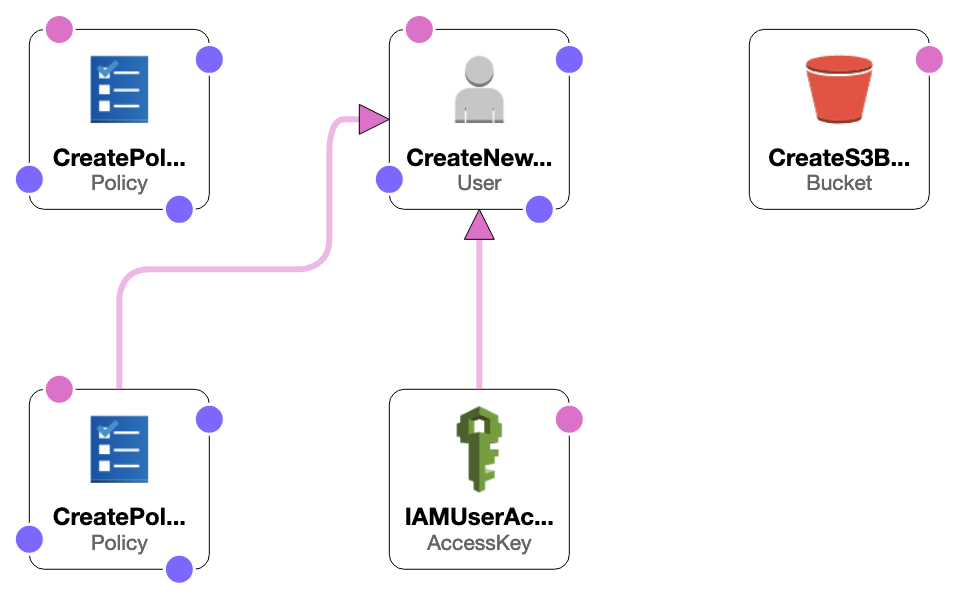
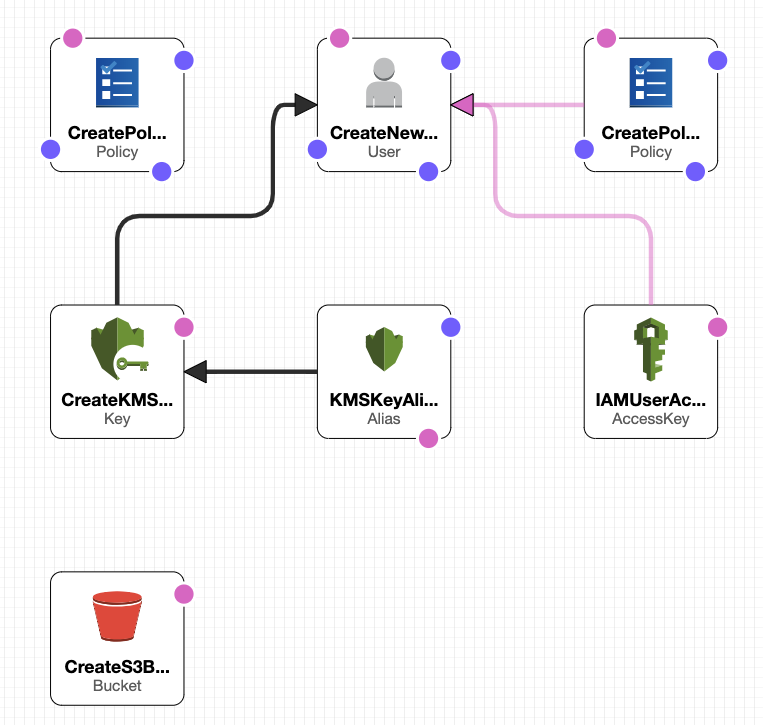
update docs for KMS support

diff --git a/docs/quick-start.md b/docs/quick-start.md
@@ -2,78 +2,83 @@
 
 Walkthrough for commpleting the AWS configuration process required for the Rubrik CloudOut to S3.
 
-The end-to-end workflow is as follows:
+The following tasks are completed during the workflow:
 
-* A new IAM policy is created
-* A new IAM user is created
-* IAM policy is assigned to user
-* Access key is generated
-* S3 bucket is created
+* A new IAM user is created* (Access and Secret Keys generated)
+* A new inline IAM policy is created for the user
+* S3 bucket is created*
+* A new KMS key is created (optional)
+
+_* The template can also consume a previously created IAM User or S3 Bucket_
 
 ![Template Design](/docs/img/rubrik_cloudout-designer.png)
 
-
-# CloudFormation Stack
+## CloudFormation Stack
 
 Navigate to **Services** > **CloudFormation** > **Stacks** and select **Create Stack**. 
 
 ![Create a Stack](/docs/img/image1.png)
 
-Either select **Upload a template to Amazon S3** or, preferably, **Specify an Amazon S3 template URL**. 
+Either select **Upload a template file** or, preferably, **Specify an Amazon S3 template URL**.
 
 ![Select Template](/docs/img/image2.png)
 
 The template file can be downloaded [here](https://s3-us-west-1.amazonaws.com/cloudformation-templates-rubrik-prod/rubrik_cloudout.template). Copy the following URL:
 
-```
-https://s3-us-west-1.amazonaws.com/cloudformation-templates-rubrik-prod/rubrik_cloudout.template
-```
+`https://s3-us-west-1.amazonaws.com/cloudformation-templates-rubrik-prod/rubrik_cloudout.template`
 
-On the **Specify Details** page, enter the **Stack name** and the **S3BucketName**. 
+On the **Specify stack details** page, enter the **Stack name** and the **S3BucketName**. 
 
 ![Specify Details](/docs/img/image3.png)
 
-Press **Next** through the **Options** page. 
+Press **Next** through the **Options** page.
 
 Use the **Review** page to ensure all the information is correct. Press **Create** once reviewed.
 
-Go to the Rubrik UI, select the configuration cog, and choose **Archival Locations**. Select the plus (**+**) sign to add a new archival location. 
+Go to the Rubrik UI, select the configuration cog, and choose **Archival Locations**. Select the plus (**+**) sign to add a new archival location.
 
 ![Add Archival Location](/docs/img/image4.png)
 
 Follow the Rubrik CDM User Guide to complete the setup. 
 
-# Variables
+## Variables
 
-This section provides information regarding the variables used in the template. 
+This section provides information regarding the variables used in the template.
 
-## Storage Configuration
+| WARNING: CloudFormation is not ideponment. If any of the provided variables are not unique the template will return an error message! |
+| --- |
 
-| Variable  |  Default | Description  |
-|---|---|---|
-| CreateS3NewBucket | no | Create a new S3 Bucket to use as a Rubrik archival location.|
-| S3BucketName | n/a |The name of the S3 Bucket used as a Rubrik archival location.|
+### Storage Configuration
 
+| Variable          | Default | Description                                                                                                           |
+|-------------------|---------|-----------------------------------------------------------------------------------------------------------------------|
+| CreateS3NewBucket | yes     | Create a new S3 Bucket to use as a Rubrik archival location. Choose 'no' if you wish to use a bucket already created. |
+| S3BucketName      | n/a     | The name of the S3 Bucket used as a Rubrik archival location.                                                         |
 
-## IAM Users and Roles
+### IAM Users and Roles
 
-| Variable  |  Default | Description  |
-|---|---|---|
-| CreateNewUser | yes | Create a new IAM user specific to Rubrik CloudOn. If 'no' is selected the S3 IAM policy will be attached to the provided IAMUserName which should already be created. |
-| IAMUserName | rubrik-cloudon | The name of the IAM User to assign the new CloudOn specific policies to. |
+| Variable      | Default        | Description                                                                                                                                                           |
+|---------------|----------------|-----------------------------------------------------------------------------------------------------------------------------------------------------------------------|
+| CreateNewUser | yes            | Create a new IAM user specific to Rubrik CloudOn. If 'no' is selected, the IAM policy will be attached to the provided `IAMUserName` which should already be created. |
+| IAMUserName   | rubrik-cloudon | The name of the IAM User to assign the new CloudOn specific policies to.                                                                                              |
 
-
-## Optional
+### Optional
 
 Default names and descriptions for the various IAM Users, Policies, and Security Group created during the process.
 
-| Variable  |  Default | Description  |
-|---|---|---|
-| UserPolicyName |rubrik-cloudon |S3 Security policy used for Rubrik CloudOn.|
+| Variable       | Default        | Description                                 |
+|----------------|----------------|---------------------------------------------|
+| UserPolicyName | rubrik-cloudon | S3 Security policy used for Rubrik CloudOn. |
 
-Output from the CloudFormation template: 
+### Output 
 
-| Variable | Description |
-|---|---|
-| IAMUserAccessKey | Access Key for the new IAM User (if applicable).  |
-| IAMUserSecretKey | Secret Key for the new IAM user (if applicable).  |
+The following information can used when to add the archive location to the Rubrik cluster.
+
+| Variable         | Description                                         |
+|------------------|-----------------------------------------------------|
+| IAMUserAccessKey | Access Key for the new IAM User (if applicable).    |
+| IAMUserSecretKey | Secret Key for the new IAM user (if applicable).    |
+| AWSBucketName    | The S3 Bucket name.                                 |
+| KMSKeyId         | The KMS Key ID used for encryption. (if applicable) |
+| Region           | The AWS Region where the configuration took place.  |
+
